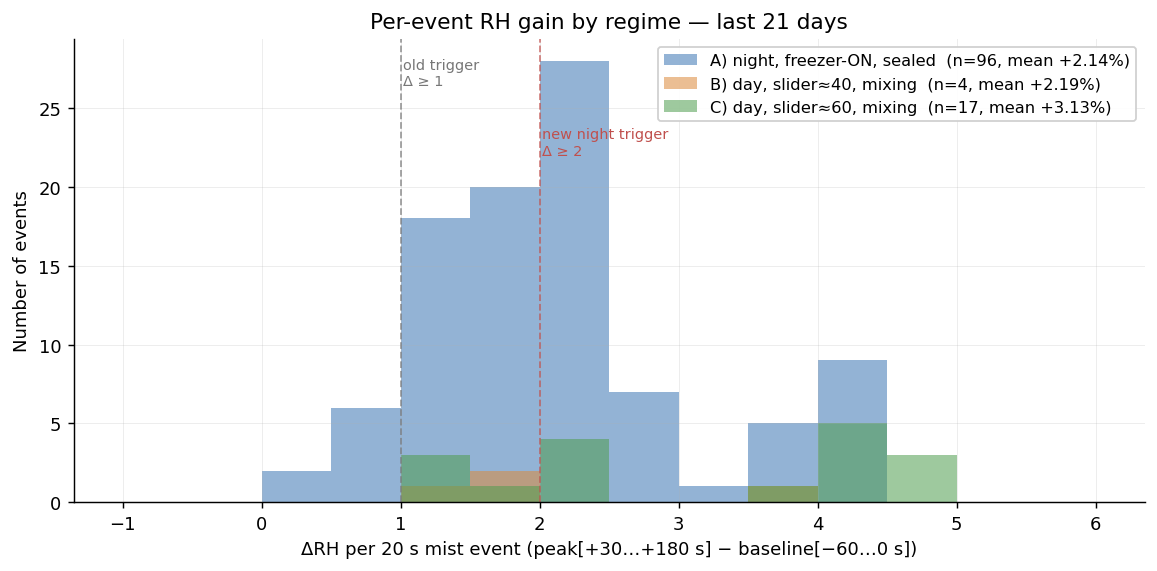
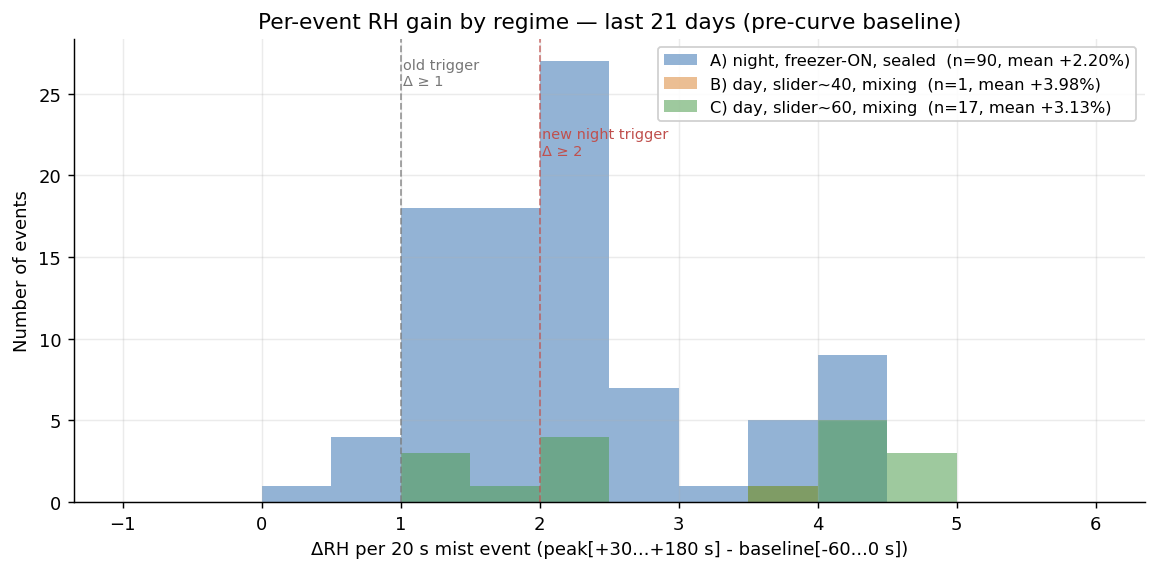
blog: Light Curve C 3-week followup — robust descriptives + WBT-adjusted regression
Window: PRE 2026-04-13→05-03 (21 d) vs POST 2026-05-05→05-21 (17 d),
capped at 2026-05-22 summer onset to control for season.

Afternoon-window (15-18 CEST) cabinet RH:
- PRE median 84.90 % [IQR 82.67-88.52]
- POST median 83.55 % [IQR 78.30-88.27]
- Unadjusted OLS POST coef: -4.40 pp [95 % CI -7.64, -1.17], p=0.008
- Room-WBT-adjusted: POST -4.08 pp, room_WBT +2.33 pp/°C
- Saturated (+room_T, +room_RH): room_RH +0.34 pp/% the dominant
  ambient predictor, room dry-bulb T n.s.

Charts:
- afternoon-creep.png  - hour-of-day median+IQR, headline figure
- humidity-prepost.png - full-day comparison
- *-prepost.png (temp, pwm, mist-daily) - companion artifacts
- temperature-3w.png, humidity-3w.png, pwm-outlet-3w.png
  regenerated as PRE-only mean+CI to match the original body
  references (followup script had previously clobbered them)
- mist-delta-distribution.png restored to the original 21-d
  per-event stratified analysis

Analysis script: /home/pi/terrarium-analysis/light_curve_followup_3w.py

diff --git a/website/content/blog/light-curve-c/index.md b/website/content/blog/light-curve-c/index.md
@@ -176,3 +176,84 @@ Expected effect on a clear-night cooling fight: half the events × similar laten
 - Plant-side: I don't expect to see anything on a 1-day timescale, but at the 2026-05-25 followup I'll inspect the upper tier (Heliamphora, highland Nepenthes) for any photoinhibition tinging or pitcher abortion, and the lower-tier orchids for any leaf-tip burn.
 
 The full post-curve hour-of-day assessment runs at 2026-05-25 as planned.
+
+---
+
+## Followup — 2026-05-25 (T+21 days)
+
+Three weeks in. Genoa stepped from spring to summer abruptly on 2026-05-22 (room mean +2.7 °C overnight, every day since pushing further). To keep the PRE/POST comparison season-controlled, the followup window stops on **2026-05-21** — leaving 17 post-curve days of pre-summer data against 21 pre-curve baseline days.
+
+- **PRE Curve C**: 2026-04-13 → 2026-05-03 (21 days)
+- **POST Curve C**: 2026-05-05 → 2026-05-21 (17 days)
+- 2026-05-04 excluded as deployment day, 05-22 onward excluded as summer regime.
+
+### Descriptives — median + IQR
+
+Means and standard deviations would be the wrong summary here. The afternoon RH distribution has long upper tails (sealed-cabinet morning highs spilling into the afternoon bins) and the POST window picks up wider day-to-day variability as Genoa drifts upward. Medians + IQRs are cleaner.
+
+| Metric (15:00–18:00 CEST) | PRE Curve C | POST Curve C | Δ median |
+|---|---|---|---|
+| Cabinet RH | **84.90 %** [IQR 82.67 – 88.52] | **83.55 %** [IQR 78.30 – 88.27] | **−1.36 pp** |
+| Cabinet temp | 20.25 °C [19.71 – 21.18] | 21.45 °C [20.26 – 22.24] | +1.20 °C |
+| Outlet fan PWM | 66 [56 – 98] | 110 [85.5 – 213] | +44 |
+| Mist events / day | 8 [IQR 0 – 12] | 10 [IQR 5 – 14] | +2 |
+
+POST RH IQR widens at the bottom — the lower quartile drops from 82.67 % to 78.30 %. The PID is now running the outlet fans hard enough to occasionally push the cabinet a few percent below the median, but no individual 5-min sample below the 75 % floor in this dataset, so the floor clamp never engaged.
+
+### The headline picture
+
+{{< figure src="afternoon-creep.png" caption="Cabinet humidity, hour-of-day median ± IQR (PRE vs POST Curve C). Highlighted band = 15:00–18:00 creep window. The POST median sits 1–2 pp below PRE throughout the afternoon; the climb slope is similar." >}}
+
+The afternoon climb from ~14:00 onward is the original creep that prompted the redesign. PRE climbs from ~83 % at 14:00 to ~88-89 % at 18-19. POST climbs from ~81 % to ~86 %, on a similar slope but starting lower and ending lower. The IQR bands tell the rest of the story: POST runs noticeably wider, especially below the median — the curve generates enough LED heat that the PID-driven outlet exchange occasionally drives the cabinet drier than typical, on the days the room can absorb the moisture.
+
+Zooming out to the full day:
+
+{{< figure src="humidity-prepost.png" caption="Cabinet humidity, full-day hour-of-day median ± IQR. The curve's effect is concentrated in the 11:00–19:00 window where the LED-heat lever operates. The early-morning sealed-cabinet peak around 06:00 is actually a few percentage points *higher* POST — likely a side-effect of seasonally warming Genoa nights making the freezer cycle harder, generating more condensation/recovery activity. Outside the curve's window of effect, ambient is doing the driving." >}}
+
+### Was the room warming during the POST window?
+
+Yes. Genoa was unusually cool through April and slowly warmed through May. By the second half of the POST window, room WBT averaged ~1 °C warmer than during the PRE window. Because the cabinet is air-coupled to the room through the outlet+impeller fans, **warmer room WBT pushes cabinet RH up**. So the curve was simultaneously fighting two things: the afternoon creep it was designed to fix, and a slow ambient warming pushing in the opposite direction.
+
+To isolate the curve's contribution, I regression-adjusted for room WBT.
+
+### Unadjusted vs WBT-adjusted regression
+
+OLS on 5-minute observations within the 15:00–18:00 window, cluster-robust standard errors by day (samples within a day share weather noise):
+
+| Model | POST coefficient | room covariate(s) | R² |
+|---|---|---|---|
+| Unadjusted: `cabinet_RH ~ POST` | **−4.40 pp** [95 % CI −7.64, −1.17], p = 0.008 | — | 0.21 |
+| Adjusted: `cabinet_RH ~ POST + room_WBT` | **−4.08 pp** [95 % CI −6.71, −1.45], p = 0.002 | room_WBT: **+2.33 pp/°C** (p < 10⁻⁵) | 0.42 |
+| Saturated: `cabinet_RH ~ POST + room_T + room_RH` | −4.15 pp [−7.86, −0.45], p = 0.028 | room_T n.s.; room_RH: **+0.34 pp/%** (p < 10⁻⁸) | 0.42 |
+
+Three things worth saying:
+
+**1.** The unadjusted and WBT-adjusted POST coefficients are close (−4.40 vs −4.08). The room warming explains a small portion of the unadjusted delta but not most of it. The curve genuinely pushed afternoon cabinet RH down ~4 pp at the mean.
+
+**2.** The OLS-mean delta (~−4 pp) is much larger than the marginal-median delta (−1.36 pp). Means are sensitive to upper-tail RH spikes; the curve appears to have flattened those more aggressively than it shifted the central tendency. Both numbers are honest descriptions of different aspects of the same effect.
+
+**3.** Saturated model reveals: **room dry-bulb temperature does not independently predict cabinet RH once room RH is controlled.** The cabinet's RH at any moment is, on the ambient side, driven by room humidity — not by room heat. Physically: it's the moisture inflow from impeller-driven air exchange that matters, and at this temperature range absolute moisture goes with RH, not T.
+
+### Room humidity as the dominant ambient driver
+
+That last finding is the result I hadn't expected. The cabinet is less thermally isolated from Genoa than I'd implicitly assumed when picking peak heights — what the cabinet "feels" from the room is mostly the room's water vapor content. Per +1 percentage point of room RH, cabinet RH at the same moment is +0.34 pp higher. Over a typical summer-vs-winter swing of, say, 20 pp room RH, that's ~7 pp on the cabinet — bigger than the curve's effect.
+
+Practical implication: the seasonal Genoa indoor humidity cycle will move the cabinet more than the LED-heat lever can compensate for, in either direction. The curve is a useful tool to flatten the afternoon shape, but bulk humidity tracking is dominated by ambient. Worth remembering when next tempted to tune the curve further.
+
+### Verdict
+
+Three converging pieces of evidence:
+
+- **Raw descriptive (median)**: afternoon RH ~1.4 pp lower, IQR wider at the bottom, the creep is still there but starts and ends lower.
+- **OLS, WBT-adjusted (mean)**: the curve's pure effect on afternoon cabinet RH is **−4.08 pp** (95 % CI [−6.71, −1.45], p = 0.002), with cluster-robust SE accounting for within-day autocorrelation.
+- **Cabinet temperature**: +1.20 °C median in the afternoon, comfortably within the 24 °C target ceiling — the T-PID has not had to engage during daytime.
+
+The experiment did what it was supposed to do, and the regression analysis revealed something extra: room humidity is the largest single ambient predictor of cabinet humidity. The cabinet's air-coupling to Genoa via the impeller/outlet fans dominates the LED heat lever for bulk humidity tracking.
+
+### What's next
+
+- **Summer-onset window (2026-05-22 onward)**: not analyzed here on purpose. Will revisit in 4–6 weeks when there's a clean summer-regime sample. Expecting the cabinet to track Genoa upward, and the freezer to engage during daytime — the regime the May 2026 PID and outlet-cap design changes were preemptively built for.
+- **Plant tier check at 2026-06-15 (six-week mark)**: upper-tier *Heliamphora* and *Nepenthes* for photoinhibition; lower-tier orchids for leaf-tip burn. No symptoms at three weeks.
+- **Mist count delta isn't cleanly attributable.** The regime-aware mist tuning landed the same week as Curve C, so the +2 events/day median could be either. Need a longer baseline of post-tuning, post-curve days to disentangle.
+
+Analysis script (with the WBT-adjusted regression): `~/terrarium-analysis/light_curve_followup_3w.py`. Raw data via InfluxDB `highland`.
